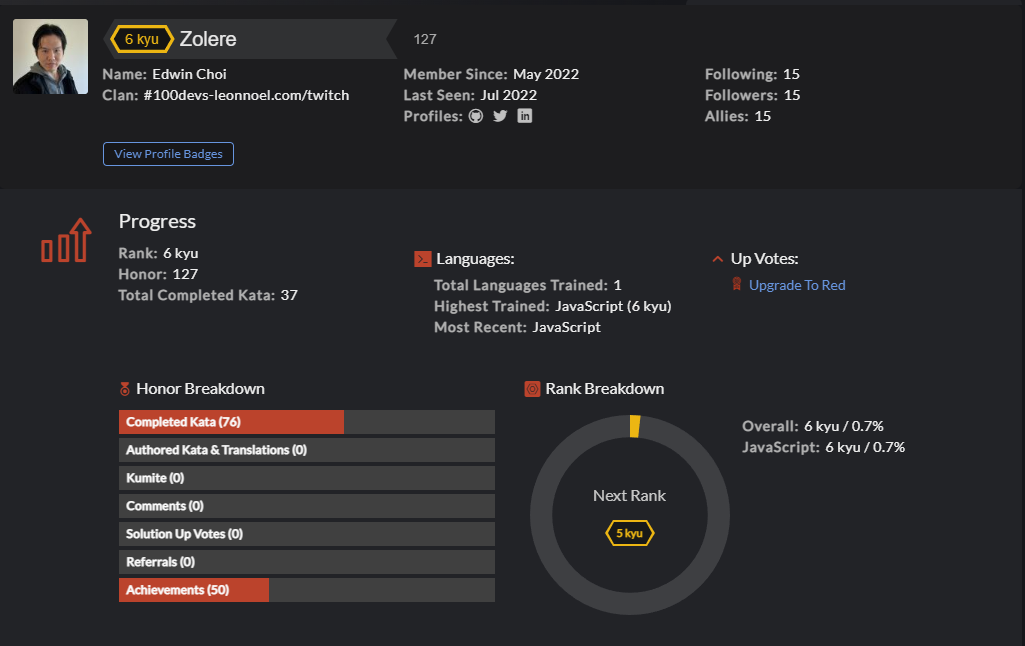
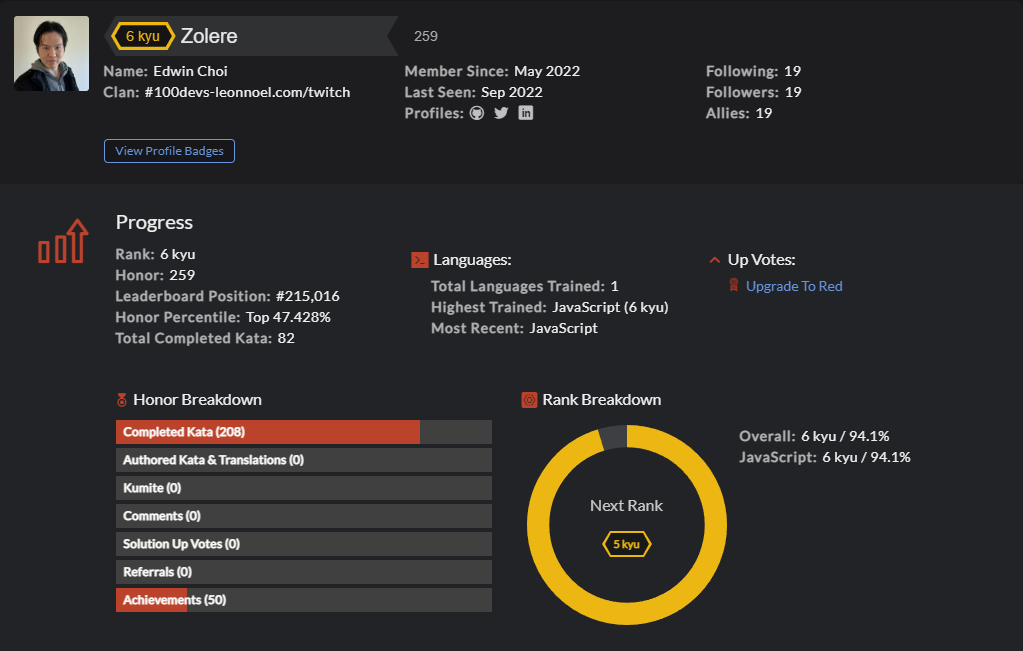
Add 7th & 8th kyu challenges

diff --git a/7th Kyu/Adding Arrays.js b/7th Kyu/Adding Arrays.js
@@ -1,0 +1,58 @@
+// Create a function that takes an array of letters, and combines them into words in a sentence.
+
+// The array will be formatted as so:
+
+// [['J','L','L','M']
+// ,['u','i','i','a']
+// ,['s','v','f','n']
+// ,['t','e','e','']]
+// The function should combine all the 0th indexed letters to create the word 'just', all the 1st indexed letters to create the word 'live', etc.
+
+// Shorter words will have an empty string in the place once the word has already been mapped out (see the last element in the last element in the array).
+
+// Examples:
+
+// arrAdder([
+// ['J','L','L','M'],
+// ['u','i','i','a'],
+// ['s','v','f','n'],
+// ['t','e','e','']
+// ]) // => "Just Live Life Man"
+
+// arrAdder([ 
+//   [ 'T', 'M', 'i', 't', 'p', 'o', 't', 'c' ],
+//   [ 'h', 'i', 's', 'h', 'o', 'f', 'h', 'e' ],
+//   [ 'e', 't', '', 'e', 'w', '', 'e', 'l' ],
+//   [ '', 'o', '', '', 'e', '', '', 'l' ],
+//   [ '', 'c', '', '', 'r', '', '', '' ],
+//   [ '', 'h', '', '', 'h', '', '', '' ],
+//   [ '', 'o', '', '', 'o', '', '', '' ],
+//   [ '', 'n', '', '', 'u', '', '', '' ],
+//   [ '', 'd', '', '', 's', '', '', '' ],
+//   [ '', 'r', '', '', 'e', '', '', '' ],
+//   [ '', 'i', '', '', '', '', '', '' ],
+//   [ '', 'a', '', '', '', '', '', '' ] ]) // => "The Mitochondria is the powerhouse of the cell"
+
+function arrAdder(arr) {
+    let result = ''
+    for (i = 0; i < arr[0].length; i++) {
+      for (j = 0; j < arr.length; j++) {
+        result += arr[j][i]
+      }
+      result += ' '
+    }
+    return result.trim()
+  }
+  
+  // PREP
+  // PARAMETERS
+  // Enter an array of letters
+  // RETURNS
+  // Return the array back as words that form a sentence
+  // EXAMPLES
+  // ['J','L','L','M'],
+  // ['u','i','i','a'],
+  // ['s','v','f','n'],
+  // ['t','e','e',''] => "Just Live Life Man"
+  // PSEUDO
+  // You can either use for loops or a double map method followed by two join methods

diff --git a/7th Kyu/Merge two arrays.js b/7th Kyu/Merge two arrays.js
@@ -1,0 +1,35 @@
+// Write a function that combines two arrays by alternatingly taking elements from each array in turn.
+
+// Examples:
+
+// [a, b, c, d, e], [1, 2, 3, 4, 5] becomes  [a, 1, b, 2, c, 3, d, 4, e, 5]
+
+// [1, 2, 3], [a, b, c, d, e, f] becomes [1, a, 2, b, 3, c, d, e, f]
+// Points:
+
+// The arrays may be of different lengths, with at least one character/digit.
+// One array will be of string characters (in lower case, a-z), a second of integers (all positive starting at 1).
+
+function mergeArrays(a, b) {
+    const maxLength = Math.max(a.length, b.length);
+    let result = [];
+    
+    for (let i = 0; i < maxLength; i++) {
+      result.push(a[i]);
+      result.push(b[i]);
+    }
+    
+    return result.filter((value) => value !== undefined)
+  }
+  
+  // PREP
+  // PARAMETERS
+  // Enter in 2 arrays, one made up of strings, another made up of numbers
+  // RETURNS
+  // Return an array that merges the two together, with their elements alternating
+  // EXAMPLES
+  // [1, 2, 3], [a, b, c] -> [1, a, 2, b, 3, c]
+  // PSEUDO
+  // How do you join 2 arrays? .concat()
+  // Does concat automatically sort them by alternating elements from each array?
+  // If not, what method would you use for that?

diff --git a/8th Kyu/String cleaning.js b/8th Kyu/String cleaning.js
@@ -1,0 +1,25 @@
+// Your boss decided to save money by purchasing some cut-rate optical character recognition software for scanning in the text of old novels to your database. 
+// At first it seems to capture words okay, but you quickly notice that it throws in a lot of numbers at random places in the text.
+
+// Examples (input -> output)
+// '! !'                 -> '! !'
+// '123456789'           -> ''
+// 'This looks5 grea8t!' -> 'This looks great!'
+
+// Your harried co-workers are looking to you for a solution to take this garbled text and remove all of the numbers. 
+// Your program will take in a string and clean out all numeric characters, and return a string with spacing and special characters ~#$%^&!@*():;"'.,? all intact.
+
+function stringClean(s){
+    noNumbers = s.replace(/[0-9]/g, '');
+    return noNumbers
+  }
+  
+  //PREP
+  //PARAMETERS
+  //Enter in a string
+  //RETURNS
+  //Return the string with all numbers removed
+  //EXAMPLES
+  //'abc456' --> 'abc'
+  //PSEUDO
+  //How do you remove the numbers in a string?

diff --git a/8th Kyu/Merge two sorted arrays into one.js b/8th Kyu/Merge two sorted arrays into one.js
@@ -1,0 +1,22 @@
+// You are given two sorted arrays that both only contain integers. Your task is to find a way to merge them into a single one, sorted in asc order. 
+// Complete the function mergeArrays(arr1, arr2), where arr1 and arr2 are the original sorted arrays.
+
+// You don't need to worry about validation, since arr1 and arr2 must be arrays with 0 or more Integers. 
+// If both arr1 and arr2 are empty, then just return an empty array.
+
+// Note: arr1 and arr2 may be sorted in different orders. Also arr1 and arr2 may have same integers. Remove duplicated in the returned result.
+
+// Examples (input -> output)
+// * [1, 2, 3, 4, 5], [6, 7, 8, 9, 10] -> [1, 2, 3, 4, 5, 6, 7, 8, 9, 10]
+
+// * [1, 3, 5, 7, 9], [10, 8, 6, 4, 2] -> [1, 2, 3, 4, 5, 6, 7, 8, 9, 10]
+
+// * [1, 3, 5, 7, 9, 11, 12], [1, 2, 3, 4, 5, 10, 12] -> [1, 2, 3, 4, 5, 7, 9, 10, 11, 12]
+// Happy coding!
+
+function mergeArrays(arr1, arr2) {
+    arr3 = arr1.concat(arr2)
+    arr3 = [...new Set(arr3)]
+    arr3 = arr3.sort((a, b) => a - b)
+    return arr3
+  }

diff --git a/8th Kyu/Palindrome Strings.js b/8th Kyu/Palindrome Strings.js
@@ -1,0 +1,31 @@
+// A palindrome is a word, phrase, number, or other sequence of characters which reads the same backward or forward. 
+// This includes capital letters, punctuation, and word dividers.
+
+// Implement a function that checks if something is a palindrome. If the input is a number, convert it to string first.
+
+// Examples(Input ==> Output)
+// "anna"   ==> true
+// "walter" ==> false
+// 12321    ==> true
+// 123456   ==> false
+
+function isPalindrome(line) {
+    lineReverse = line.split('').reverse().join('')
+    if (line === lineReverse) {
+      return true
+    } else {
+      return false
+    }
+  }
+  
+  // PREP
+  // PARAMETERS
+  // enter a string
+  // RETURNS
+  // return true if the string is a palindrome, false if it is not
+  // EXAMPLES
+  // "12321" -> true
+  // "walter" -> false
+  // PSEUDO
+  // check if the string is the exact same as its reverse
+  // split is needed first, with a join following the reverse method

diff --git a/8th Kyu/Beginner Series #2 Clock.js b/8th Kyu/Beginner Series #2 Clock.js
@@ -1,0 +1,35 @@
+// Clock shows h hours, m minutes and s seconds after midnight.
+
+// Your task is to write a function which returns the time since midnight in milliseconds.
+
+// Example:
+// h = 0
+// m = 1
+// s = 1
+
+// result = 61000
+// Input constraints:
+
+// 0 <= h <= 23
+// 0 <= m <= 59
+// 0 <= s <= 59
+
+function past(h, m, s){
+  return ((h * 3600000) + (m * 60000) + (s * 1000))
+}
+
+//PREP
+//PARAMETERS
+//The function takes in values for hours, minutes, and seconds
+//
+//RETURNS
+//The function returns all of the values above, added together, in milliseconds
+//1 hour = 3,600,000 ms
+//1 minute = 60,000 ms
+//1 second = 1,000 ms
+//EXAMPLES
+//1,1,1 = 3,661,000 ms
+//1,0,0 = 3,600,000 ms
+//PSEUDO
+//Multiply each time aspect by its respective conversion rate to ms
+//Add all of them together afterwards

diff --git a/7th Kyu/Convert an array of strings to array of numbers.js b/7th Kyu/Convert an array of strings to array of numbers.js
@@ -1,0 +1,24 @@
+// Some really funny web dev gave you a sequence of numbers from his API response as an sequence of strings!
+
+// You need to cast the whole array to the correct type.
+
+// Create the function that takes as a parameter a sequence of numbers represented as strings and outputs a sequence of numbers.
+
+// ie:["1", "2", "3"] to [1, 2, 3]
+
+// Note that you can receive floats as well.
+
+function toNumberArray(stringarray){
+    numArray = stringarray.map(Number)
+    return numArray
+  }
+  
+  // PREP
+  // PARAMETERS
+  // Enter a sequence of numbers represented as strings
+  // RETURNS
+  // Return the sequence as numbers
+  // EXAMPLES
+  // ["1", "2", "3"]
+  // PSEUDO
+  // Loop through each element in the array and convert it to a number

diff --git a/8th Kyu/Reversing Words in a String.js b/8th Kyu/Reversing Words in a String.js
@@ -1,0 +1,26 @@
+// You need to write a function that reverses the words in a given string. A word can also fit an empty string. 
+// If this is not clear enough, here are some examples:
+
+// As the input may have trailing spaces, you will also need to ignore unneccesary whitespace.
+
+// Example (Input --> Output)
+
+// "Hello World" --> "World Hello"
+// "Hi There." --> "There. Hi"
+// Happy coding!
+
+function reverse(string){
+    return string.split(' ').reverse().join(' ')
+  }
+  
+  // PREP
+  // PARAMETERS
+  // Enter in a string
+  // RETURNS
+  // Return the string with each word reversed
+  // EXAMPLES
+  // "Hello World" -> "World Hello"
+  // PSEUDO
+  // Split each string where it has a space.
+  // Then reverse.
+  // Then rejoin.

diff --git a/8th Kyu/Remove First and Last Character.js b/8th Kyu/Remove First and Last Character.js
@@ -1,0 +1,22 @@
+// It's pretty straightforward. Your goal is to create a function that removes the first and last characters of a string. 
+// You're given one parameter, the original string. You don't have to worry with strings with less than two characters.
+
+function removeChar(str){
+    return str.slice(1, -1)
+  };
+  
+  //PREP
+  //PARAMETERS
+  //Take in any string.
+  //
+  //RETURNS
+  //Return the string, but with the first and last characters removed.
+  //
+  //EXAMPLES
+  //place = lac
+  //country = ountr
+  //
+  //PSEUDO
+  //Split the string into separate characters
+  //Remove the first and last characters of the split string
+  //Rejoin the remaining characters into a single string

diff --git a/8th Kyu/Remove exclamation marks.js b/8th Kyu/Remove exclamation marks.js
@@ -1,0 +1,17 @@
+// Write function RemoveExclamationMarks which removes all exclamation marks from a given string.
+
+function removeExclamationMarks(s) {
+    return s.split('!').join('')
+  }
+  
+  //PREP
+  //PARAMETERS
+  //Enter any given string
+  //RETURNS
+  //Return the string without any exclamation marks
+  //
+  //EXAMPLES
+  //"Hello World!" -> "Hello World"
+  //
+  //PSEUDO
+  //Can we use .split() at each !, and then .join('')? 

diff --git a/8th Kyu/Grasshopper - Personalized Message.js b/8th Kyu/Grasshopper - Personalized Message.js
@@ -1,0 +1,15 @@
+// Create a function that gives a personalized greeting. This function takes two parameters: name and owner.
+
+// Use conditionals to return the proper message:
+
+// case	return
+// name equals owner	'Hello boss'
+// otherwise	'Hello guest'
+
+function greet (name, owner) {
+    if (name === owner) {
+      return 'Hello boss';
+    } else {
+      return 'Hello guest'
+    }
+  }

diff --git a/8th Kyu/Remove String Spaces.js b/8th Kyu/Remove String Spaces.js
@@ -1,0 +1,15 @@
+// Simple, remove the spaces from the string, then return the resultant string.
+
+function noSpace(x){
+    return x.split(' ').join('')
+  }
+  
+  //PREP
+  //PARAMETERS
+  //Enter a string
+  //RETURNS
+  //Return the string with no spaces in it
+  //EXAMPLES
+  //"a b cde" --> "abcde"
+  //PSEUDO
+  //Split the string with a blank space, and then rejoin it with no space
